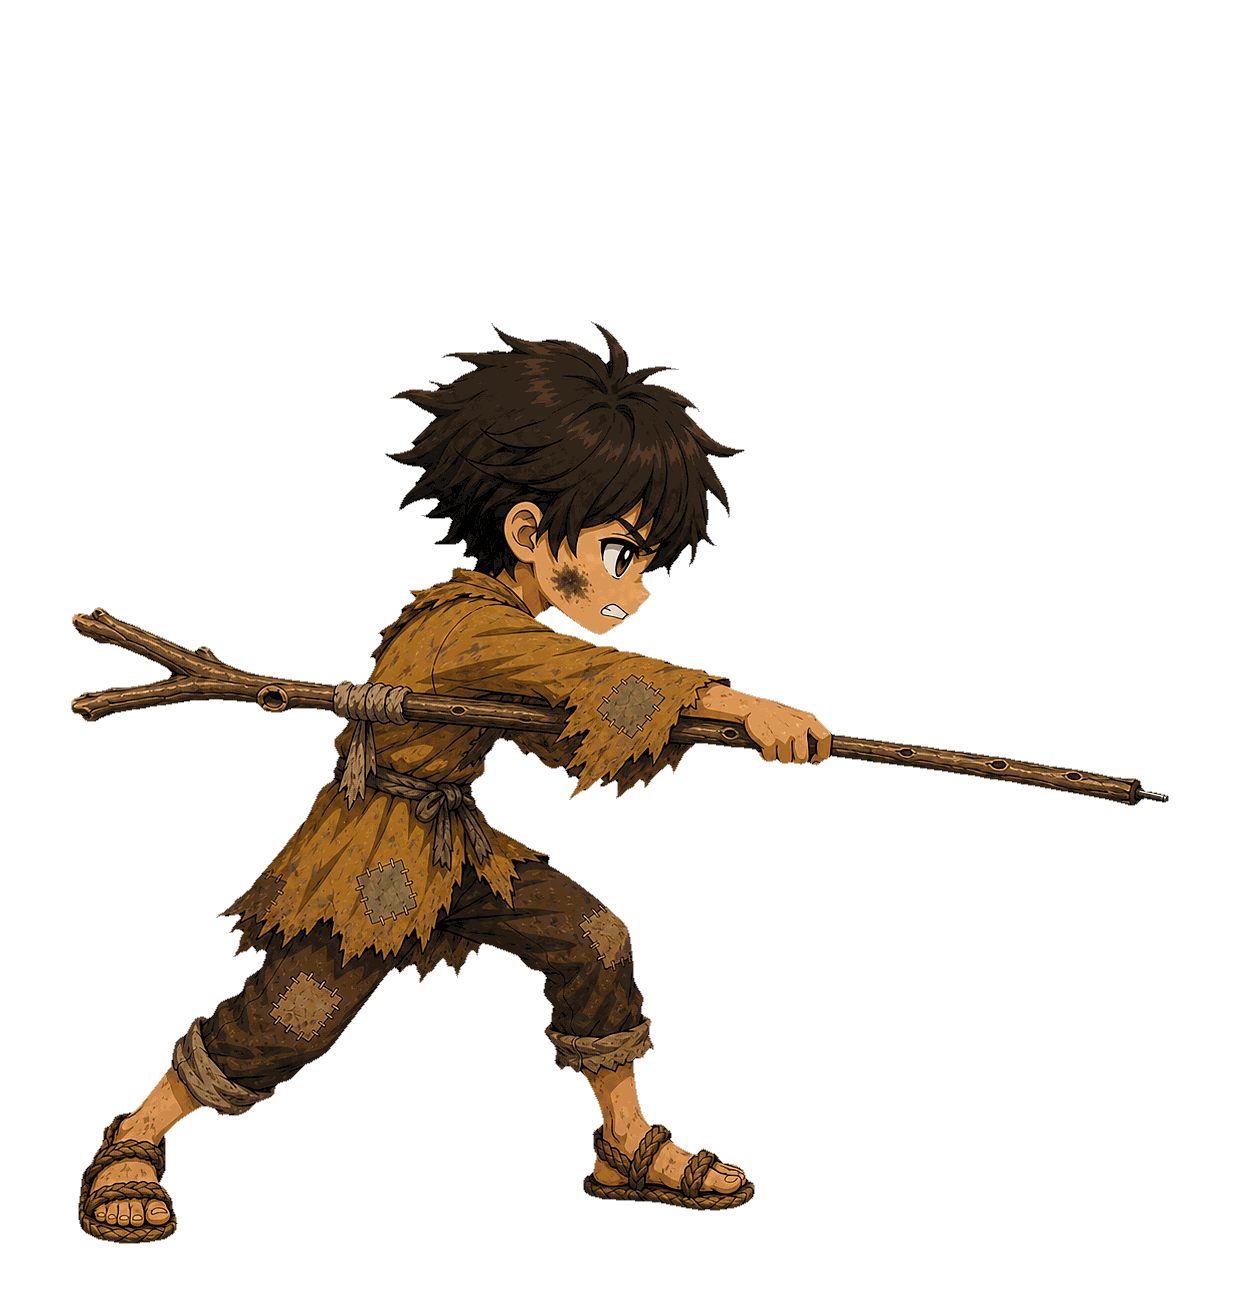
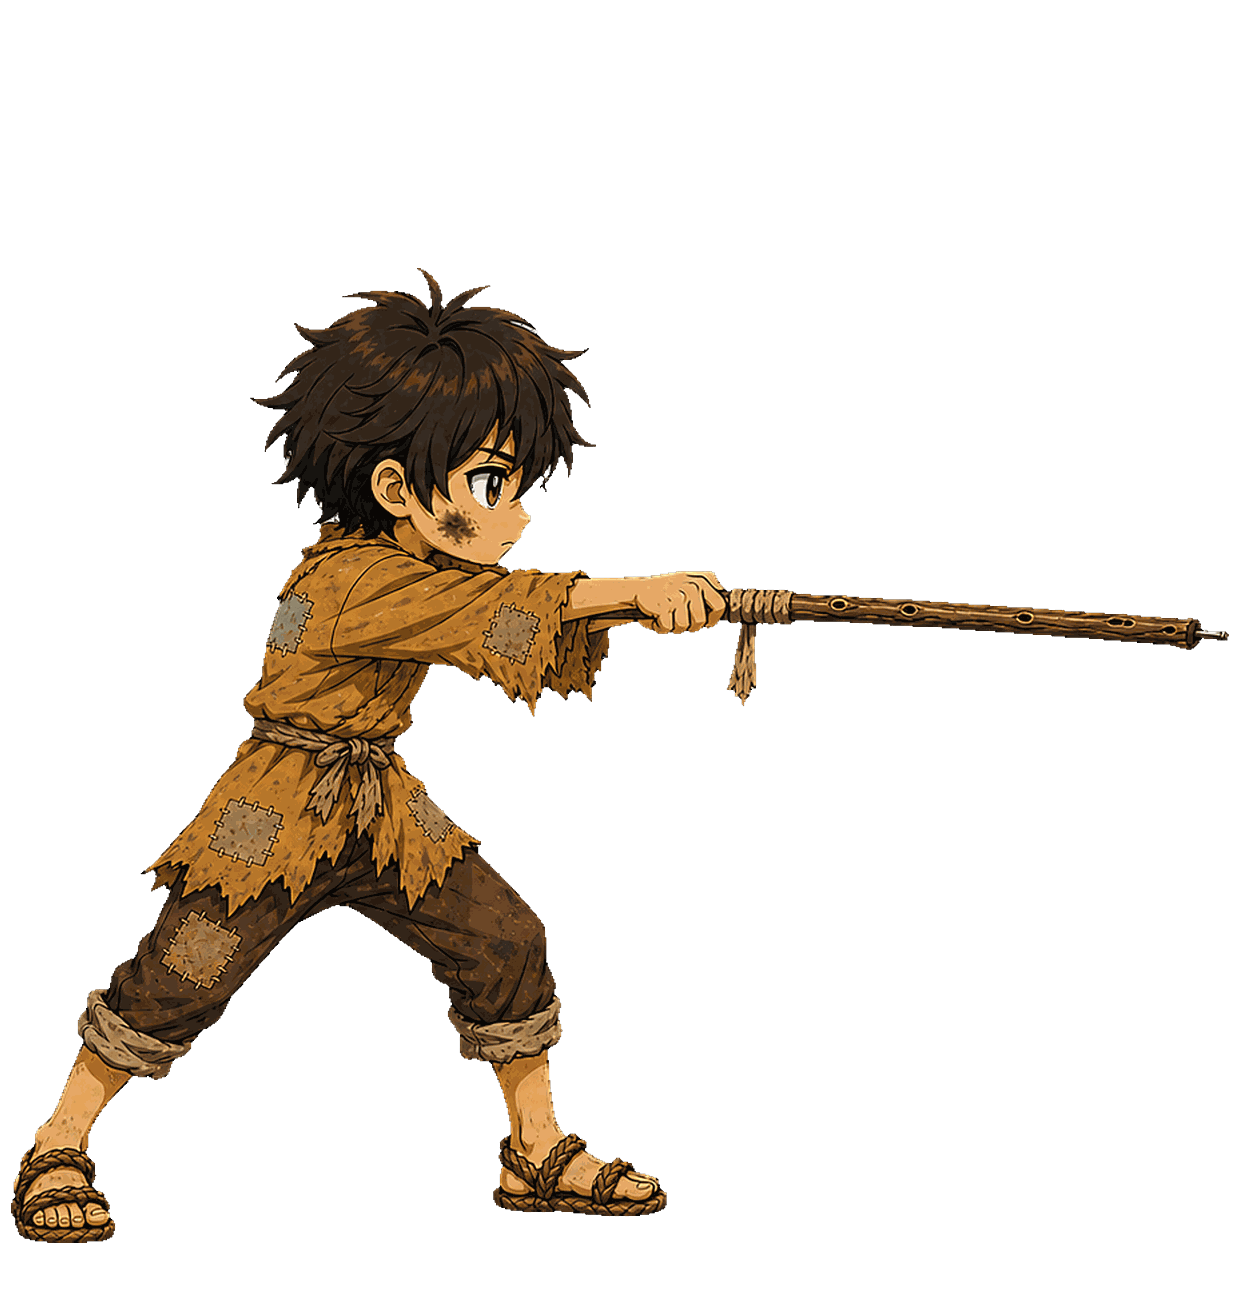
fix(player): 攻擊動畫 v8 — 同站位雙幀+攻擊站定 根治腳不協調(Codex APPROVE)

Changed region(s): [[0.0, 0.2154, 1.0, 0.9538]]

diff --git a/src/game/scenes/Game.ts b/src/game/scenes/Game.ts
@@ -1701,6 +1701,9 @@ export class Game extends Scene
 
     private handleMovement(delta: number)
     {
+        // 楓谷式攻擊站定:揮擊動畫(~167ms)期間不位移,修「攻擊姿勢在地上滑行」的不協調
+        // (hurt 不 root — 被打仍可走位;攻擊結束下一 frame 即恢復移動)
+        if (this.playerActionAnim === 'attacking') return;
         let dx = 0, dy = 0;
         if (this.joystick.active) {
             dx = this.joystick.dx;